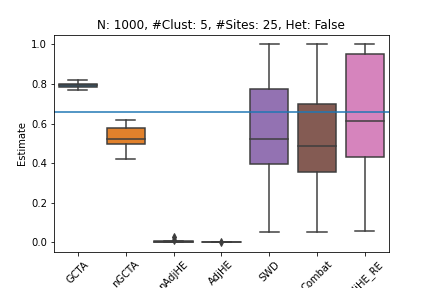
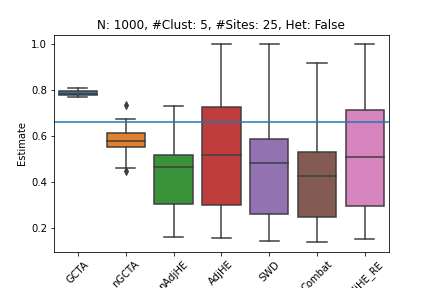
Change then number of npcs used in the basic AdjHE and naive AdjHE estimation for hte simulation and got better results

diff --git a/run_sims.py b/run_sims.py
@@ -50,12 +50,12 @@ def sim_n_est(nsubjects = 1000, sigma = [0.5,0.25, 0.25], site_comp = "IID", nsi
         cs = None
         
     # Estimate always
-    AdjHE = ests.estimate(Method = "AdjHE", npc = [nnpc], covars = cs, mpheno = ["Y"], Naive = False)["h2"][0]
+    AdjHE = ests.estimate(Method = "AdjHE", npc = [0], covars = cs, mpheno = ["Y"], Naive = False)["h2"][0]
     GCTA_est = ests.estimate(Method = "GCTA", npc = [nnpc], covars = cs, mpheno = ["Y"], Naive = False)["h2"][0]
     
     # Estimate when greater than one site
     if nsites > 1 :
-        nAdjHE = ests.estimate(Method = "AdjHE", npc = [nnpc], covars = cs, mpheno = ["Y"], RV = "abcd_site", Naive = True)["h2"][0]
+        nAdjHE = ests.estimate(Method = "AdjHE", npc = [0], covars = cs, mpheno = ["Y"], RV = "abcd_site", Naive = True)["h2"][0]
         AdjHE_RE = ests.estimate(Method = "AdjHE", npc = [nnpc], covars = cs, mpheno = ["Y"], RV = "abcd_site", Naive = False)["h2"][0]
         try :
             nGCTA = ests.estimate(Method = "GCTA", npc = [nnpc], covars = cs, mpheno = ["Y"], RV = "abcd_site", Naive = True)["h2"][0]
@@ -120,7 +120,7 @@ def sim_experiment(nsubjectss = [1000], sigmas = [[0.5,0.25, 0.25]], site_comps 
                                 site_deps, nnpcs, nSNPss, phenss,
                                 range(reps)) :
                                 
-        nnpc = 2 * nclusts
+        # nnpc = 2 * nclusts
                                 
         result = sim_n_est(nsubjects = nsubjects, sigma = sigma, site_comp = site_comp, nsites = nsite,
                            theta_alleles = theta_alleles, nclusts = nclusts, dominance= dominance, prop_causal= prop_causal, 

diff --git a/Simulations/Small_verifications/verify_small.py b/Simulations/Small_verifications/verify_small.py
@@ -18,13 +18,13 @@ import itertools
 
 #%%
 N = 1000
-nc = 1
+nc = 5
 ns = 5
 site_het = False
 
 
 df = sim_n_est(nsubjects = N, sigma = [0.5,0.01, 0.5], site_comp = "IID", nsites = ns,
-              theta_alleles =0.5, nclusts =nc,  dominance=3, prop_causal=0.25, site_dep=False, nnpc = nc,
+              theta_alleles =0.5, nclusts =nc,  dominance=3, prop_causal=0.25, site_dep=False, nnpc = 0,
               nSNPs=20, phens = 2, site_het = False) 
 print(df)
 
@@ -48,8 +48,8 @@ for sg, ss, se in itertools.product(sgs, sss, ses) :
 
 N  = 1000
 ns = 25
-nc = 1
-site_het = False
+nc = 5
+site_het = True
 # #%%
 df = sim_experiment(nsubjectss= [N], reps= 10, nsites=[ns], site_comps = ["EQUAL"], sigmas = sigmas, nnpcs = [nc], nclustss=[nc],
                     site_het = site_het)
@@ -64,7 +64,7 @@ plt.savefig(f"Simulations/Small_verifications/N{N}_C{nc}_S{ns}_Het{site_het}.png
 
 #%%
 ns = 5
-nc = 1
+nc = 4
 N = 500
 site_het = False
 
@@ -83,8 +83,8 @@ if ns > 1:
 else :
     cs = None
 
-GCTA_est, subs = ests.estimate(Method = "AdjHE", npc = [0 ], covars = cs, mpheno = ["Y"], RV = "abcd_site", Naive = True)
-print(subs)
+
+GCTA_est = ests.estimate(Method = "AdjHE", npc = [0], covars = cs, mpheno = ["Y"], RV = None, Naive = False)
 print(GCTA_est)
 
 #%%

diff --git a/functions/Estimation/all_estimators.py b/functions/Estimation/all_estimators.py
@@ -83,7 +83,7 @@ def load_n_estimate(df, covars, nnpc, mp, GRM, std=False, Method="AdjHE", RV=Non
         # keep portion of GRM without missingess for the phenotypes or covariates
         nonmissing = ids[ids.IID.isin(temp.IID)].index
         GRM_nonmissing = GRM[nonmissing, :][:, nonmissing]
-        print(temp.columns)
+        print(temp.columns.tolist())
     # Select method of estimation
     if Method == "AdjHE":
         result = load_n_AdjHE(temp, covars, nnpc, mp,
